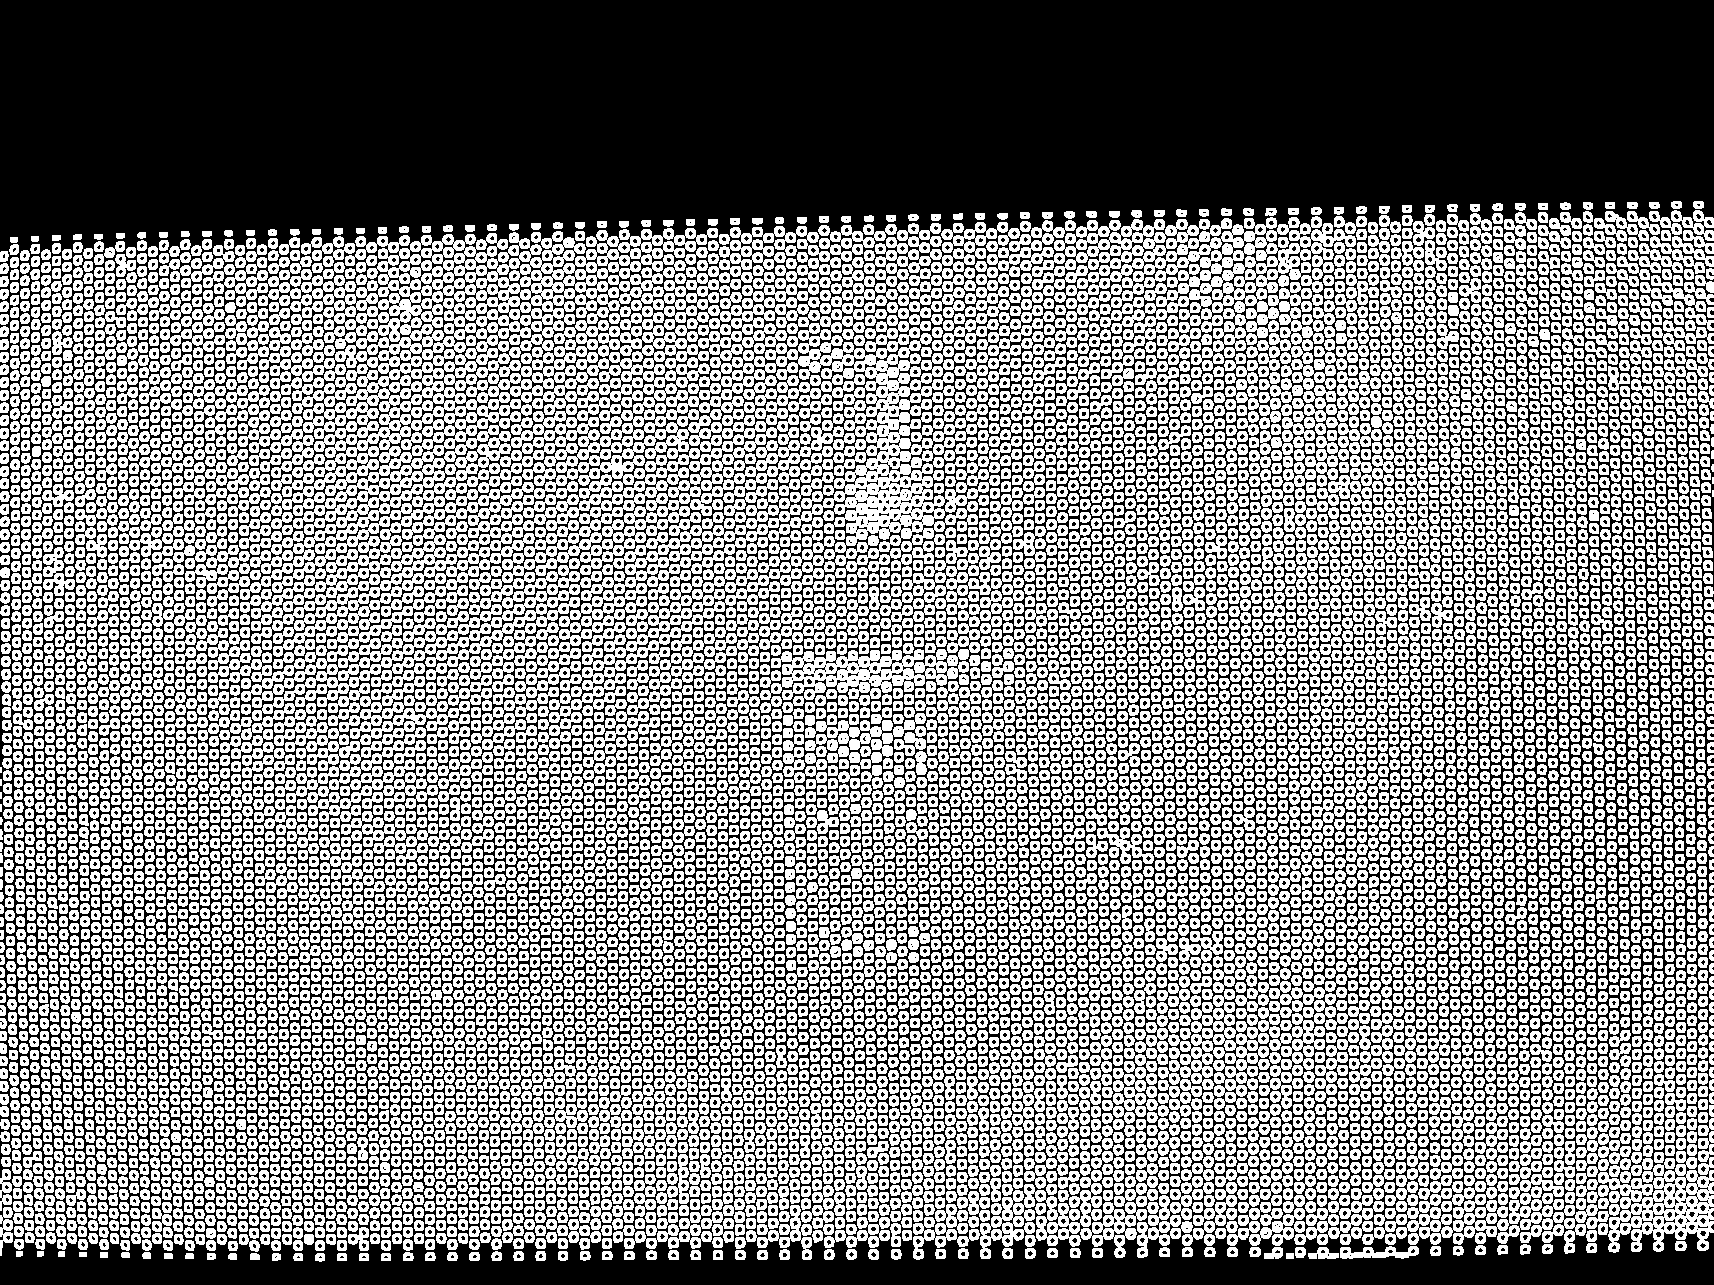
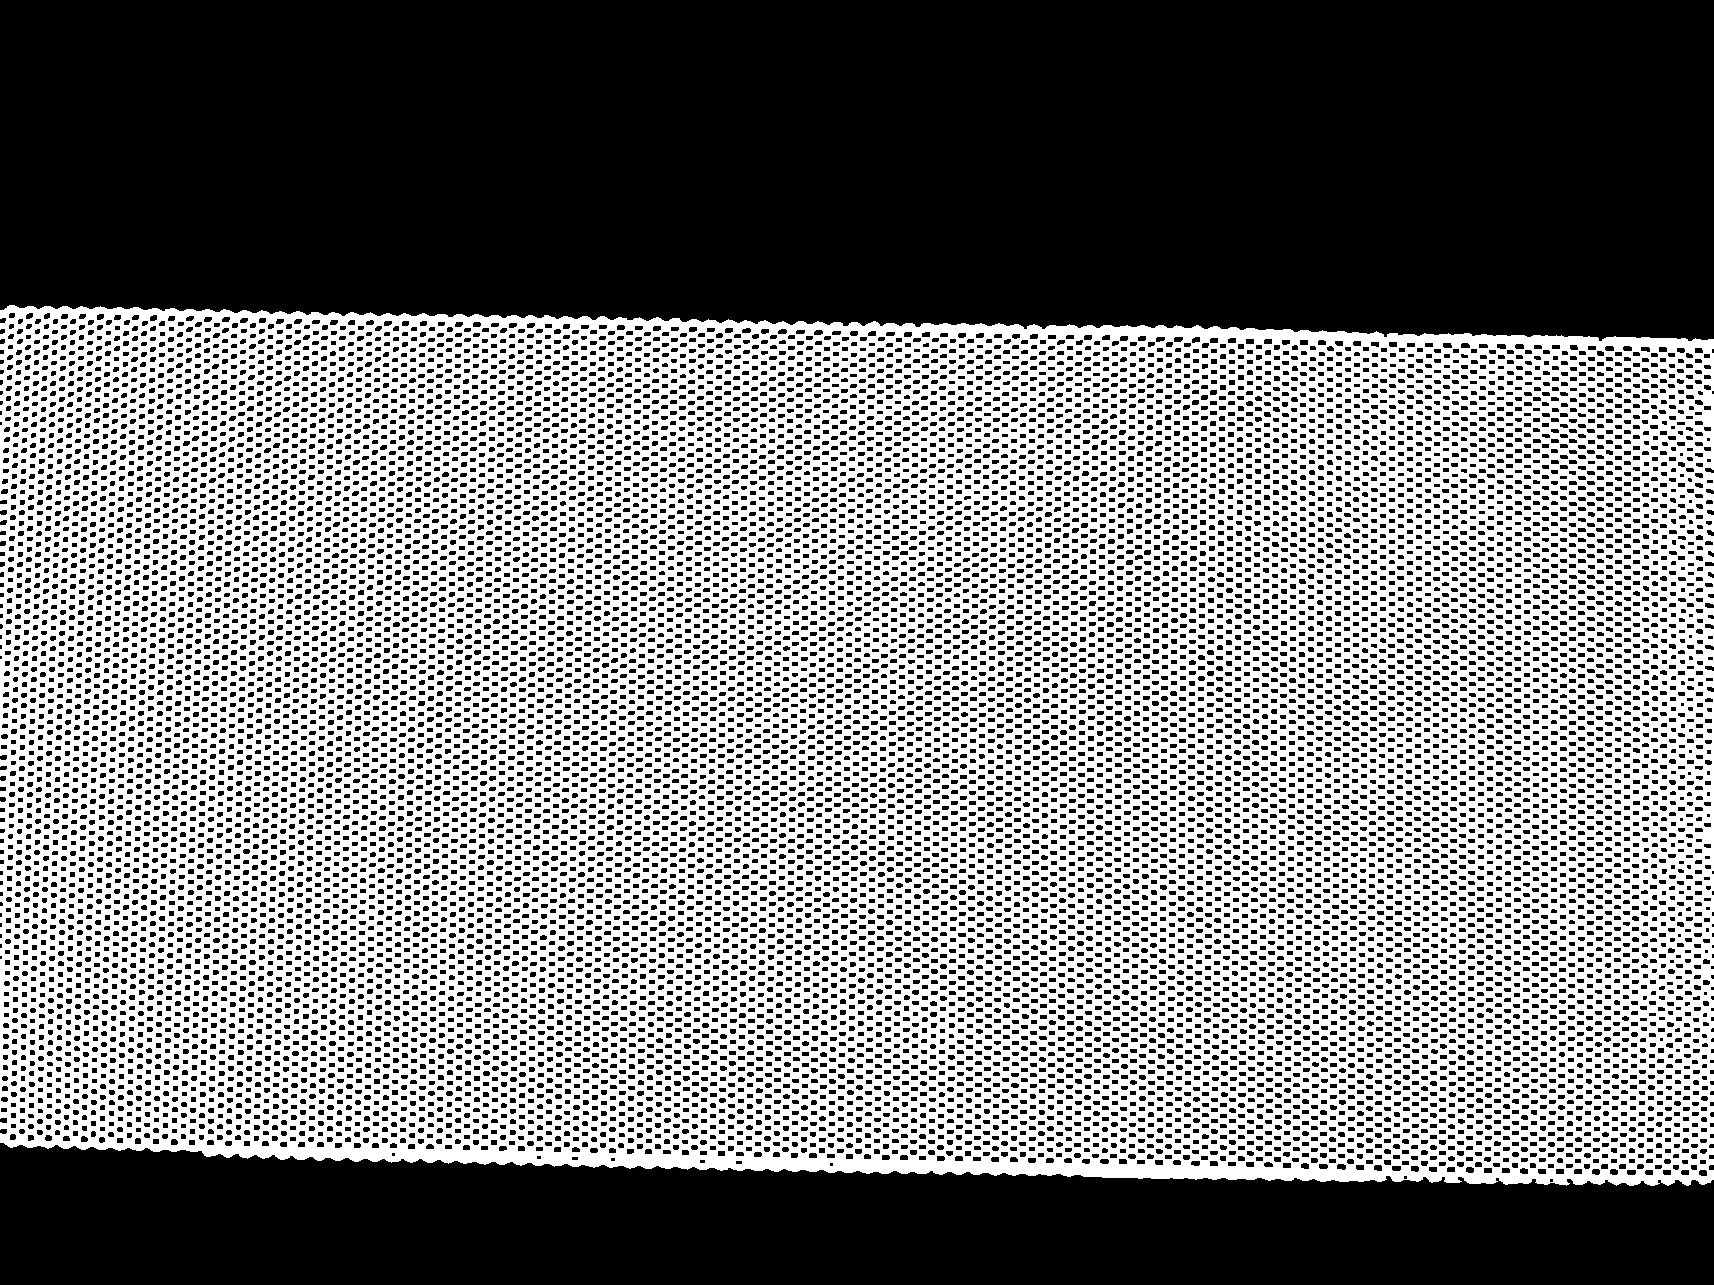
results from blurs, masks, & inpainting

diff --git a/opaque_obstruction/src/inpainting.py b/opaque_obstruction/src/inpainting.py
@@ -1,8 +1,9 @@
 import cv2 as cv
 import numpy as np
-# import libs.image_inpainting.main as region_filling
-import runpy
-from matplotlib import pyplot as plt
+from skimage.restoration import wiener
+from pathlib import Path
+
+
 
 # --------------------------------------------------------------------------------------- #
 # ---------------------------------------- Masks ---------------------------------------- #
@@ -30,21 +31,58 @@ def threshold_mask(image, threshold=115, dilate=1):
     
     return inverse_mask
 
-def test_mask(image, threshold=0, dilate=1):
+# Mask using adaptive thresholding
+def adaptive_mask(image, threshold=15, dilate=1):
     gray = cv.cvtColor(image, cv.COLOR_BGR2GRAY)
+    blurred = cv.GaussianBlur(gray, (5, 5), 0)
+    mesh_mask = cv.adaptiveThreshold(
+        blurred, 
+        255, 
+        cv.ADAPTIVE_THRESH_GAUSSIAN_C, 
+        cv.THRESH_BINARY_INV, 
+        threshold, # adjustable
+        2 # adjustable
+    )
+    kernel = np.ones((3, 3), np.uint8)
+    dilated_mask = dilate_mask(mesh_mask, dilate)
+    final_mask = cv.erode(dilated_mask, kernel, iterations=1)
 
-    edges = cv.Canny(gray, 30, 120)
+    return final_mask
 
-    # Slightly thicken to make a solid mesh
-    kernel = np.ones((3,3), np.uint8)
-    mesh = cv.dilate(edges, kernel, 1)
+# Mask using canny edge detection. Does not work
+def canny_mask(image, threshold=0, dilate=0):
+    gray = cv.cvtColor(image, cv.COLOR_BGR2GRAY)
+    blurred = cv.GaussianBlur(gray, (5, 5), 0)
+    low_threshold = 200
+    high_threshold = 2*low_threshold
+    edges = cv.Canny(blurred, low_threshold, high_threshold)
+    mask = np.zeros_like(edges)
+    contours, hierarchy = cv.findContours(edges, cv.RETR_EXTERNAL, cv.CHAIN_APPROX_SIMPLE)
+    cv.drawContours(mask, contours, -1, 255, -1)
     
-    inverse_mesh = cv.bitwise_not(mesh)
+    mask = cv.bitwise_not(mask)
+    return mask
 
-
-    # cv2.imwrite("mesh_edges.png", inverse_mesh)
-    return mesh
-
+# It is difficult to get grabcut to select the foreground.
+# The reasoning behind this is because the goal of GrabCut is to "select"
+# an object within a bounded rectangle. However, the obstruction, (microwave mesh) is
+# not an object in the image, and rather, part of the whole image and on the foreground
+def grabcut_mask(image, threshold=0, dilate=0):
+    mask = np.zeros(image.shape[:2],np.uint8)
+    bgdModel = np.zeros((1,65),np.float64)
+    fgdModel = np.zeros((1,65),np.float64)
+    rect = (500,500,1000,1000)
+    cv.grabCut(image,mask,rect,bgdModel,fgdModel,5,cv.GC_INIT_WITH_RECT)
+    
+    # mask2 = np.where((mask==2)|(mask==0),0,1).astype('uint8')
+    # img = image*mask2[:,:,np.newaxis]
+    
+    final_mask = np.where(
+        (mask == cv.GC_FGD) | (mask == cv.GC_PR_FGD),
+        255, 0
+    ).astype('uint8')
+    
+    return final_mask
 
 # --------------------------------------------------------------------------------------- #
 # ------------------------------------- Inpainting -------------------------------------- #
@@ -52,33 +90,97 @@ def test_mask(image, threshold=0, dilate=1):
 # Inpainting using navier strokes
 # @image_path: original image path. mask path is assumed to be in `01_photos_mask`
 # @resize: scale image. useful when image is too large and runs too long
-def inpaint_navier_strokes(image, mask):
-    inpainted_image = cv.inpaint(image, mask, 1, cv.INPAINT_NS)
+def inpaint_navier_strokes(image, mask, radius=1):
+    inpainted_image = cv.inpaint(image, mask, radius, cv.INPAINT_NS)
     return inpainted_image
     
 
-def inpaint_fast_marching_method(image, mask):
-    inpainted_image = cv.inpaint(image, mask, 1, cv.INPAINT_TELEA)
+def inpaint_fast_marching_method(image, mask, radius=1):
+    inpainted_image = cv.inpaint(image, mask, radius, cv.INPAINT_TELEA)
     return inpainted_image
 
 def inpaint_region_filling():
     # TODO
-
     return
 
+# --------------------------------------------------------------------------------------- #
+# -------------------------------------- Filtering -------------------------------------- #
+# --------------------------------------------------------------------------------------- #
 
-def mask_and_inpaint(image, resize=0.3):
-    scaled_image = cv.resize(image, None, fx=resize, fy=resize)
-    # mask = threshold_mask(scaled_image, 115, -1)
-    mask = test_mask(scaled_image, 115, 5)
-    inpainted_image = inpaint_navier_strokes(scaled_image, mask)
+def unblur(image, radius=15):    
+    img = image.astype(np.float32)
+    if img.max() > 1.0:
+        img = img / 255.0
+
+    kernel_size = radius
+    sigma = radius / 6
+    g = cv.getGaussianKernel(kernel_size, sigma)
+    kernel = g @ g.T
+
+    restored = np.zeros_like(img, dtype=np.float32)
+
+    for c in range(img.shape[2]):
+        restored[:, :, c] = wiener(img[:, :, c], kernel, balance=0.1)
+
+    restored = np.clip(restored * 255, 0, 255).astype(np.uint8)
+
+    return restored
+
+# Gaussian blur works suprisingly well, but it becomes very dim
+# And image is now blurred
+def gaussian_blur(image, radius=15):
+    return cv.GaussianBlur(image, (radius, radius), 0)
+
+# Median blur does not work well with obstructions. 
+# Nonlinear & adds some distortion
+def median_blur(image, radius=15):
+    return cv.medianBlur(image, radius)
+
+
+def mask_and_inpaint(image):
+    # mask = threshold_mask(image, 115, -1)
+    # mask = adaptive_mask(image, 15, 2)
+    # mask = canny_mask(image, 0, 0)
     
-    cv.imwrite(r"..\01_photos_scaled\banana_scaled.png", scaled_image)
-    cv.imwrite(r"..\01_photos_mask\banana_mask.png", mask)
-    cv.imwrite(r"..\02_photos_inpainted\banana_inpainted.png", inpainted_image)
-    return
+    th_mask = threshold_mask(image, 115, -1)
+    ad_mask = adaptive_mask(image, 15, 2)
+    
+    inpainted_image_ns_th = inpaint_navier_strokes(image, th_mask, radius=4)
+    inpainted_image_fmm_th = inpaint_fast_marching_method(image, th_mask, radius=4)
+    
+    inpainted_image_ns_ad = inpaint_navier_strokes(image, ad_mask, radius=4)
+    inpainted_image_fmm_ad = inpaint_fast_marching_method(image, ad_mask, radius=4)
+
+    return th_mask, ad_mask, inpainted_image_ns_th, inpainted_image_fmm_th, inpainted_image_ns_ad, inpainted_image_fmm_ad
+
+def run_methods(image, file_name, resize=0.3):    
+    scaled_image = cv.resize(image, None, fx=resize, fy=resize)
+
+    # Inpaints 
+    # Thresholding
+    threshold_mask, adaptive_mask, inpainted_image_ns_th, inpainted_image_fmm_th, inpainted_image_ns_ad, inpainted_image_fmm_ad = mask_and_inpaint(scaled_image)
+    cv.imwrite(rf"..\01_photos_scaled\{file_name}_scaled.png", scaled_image)
+    cv.imwrite(rf"..\01_photos_mask\{file_name}_mask_threshold.png", threshold_mask)
+    cv.imwrite(rf"..\01_photos_mask\{file_name}_mask_adaptive.png", adaptive_mask)
+    
+    cv.imwrite(rf"..\02_results_th\{file_name}_inpainted_ns.png", inpainted_image_ns_th)
+    cv.imwrite(rf"..\02_results_th\{file_name}_inpainted_fmm.png", inpainted_image_fmm_th)
+    
+    cv.imwrite(rf"..\02_results_ad\{file_name}_inpainted_ns.png", inpainted_image_ns_ad)
+    cv.imwrite(rf"..\02_results_ad\{file_name}_inpainted_fmm.png", inpainted_image_fmm_ad)
+
+    # Blurs
+    blurred_image_gaussian = gaussian_blur(scaled_image, radius=35)
+    cv.imwrite(rf"..\02_results_blurred_gs\{file_name}_blur_gaussian.png", blurred_image_gaussian)
+    
+    blurred_image_median = median_blur(scaled_image, radius=35)
+    cv.imwrite(rf"..\02_results_blurred_med\{file_name}_blur_med.png", blurred_image_median)
+
+
 
 if __name__ == "__main__":
-    image_path = r"..\00_photos_original\soap.png"
+    file_name = "fountain_pen_1"
+    
+    image_path = rf"..\00_photos_original\{file_name}.png"    
     image = cv.imread(image_path)
-    mask_and_inpaint(image, 0.3)
+    run_methods(image, file_name)

diff --git a/opaque_obstruction/README.md b/opaque_obstruction/README.md
@@ -1,0 +1,68 @@
+# Opaque Obstructions
+
+## Overview
+This section is about removing opaque obstructions. There are images of objects behind meshes / microwave screen. There are two main techniques used to remove the obstructions: blurring the whole image, and inpainting.
+
+### Blurring
+- Gaussian blur: `gaussian_blur()`
+  - \+ Simple
+  - \- Obstruction changes the color of the whole image (i.e. microwave makes images dark)
+
+- Median blur: `median_blur()`
+  - \- Somewhat works, albeit not very well
+  - \- Sometimes makes the image very dark
+  - \- Adds grid pattern to image
+
+
+### Inpainting
+#### Masking techniques
+- Simple thresholding: `threshold_mask()`
+  - \+ Removes meshes
+  - \+ Small artifacts could be blurred out
+  - \- Parts of objects that are the same color as the obstruction are blurred
+  - 
+- Adaptive thresholding: `adaptive_mask()`
+  - \+ Works the best
+  - \+ Small artifacts could be blurred out
+  - \- Slightly blurry
+  - \- Artifacts are more discernable than simple thresholding
+
+- [UNUSED] Canny edge detection: `canny_mask()`
+  - \- Does not work. It is able to capture edges, but the lines it generates are too thin and inconsistent to be effective.
+
+- [UNUSED] GrabCut: `grabcut_mask()`
+  - \- Does not work. This is because you need to address an explicit estimated area (rectangle) where the selected object/obstruction is located. Because we want to select a foreground obstruction (mesh), and it is on the whole image, it has a difficult time selecting it.
+
+#### Inpainting techniques
+All post-processed inpainting techniques could be blurred using Gaussian blur to reduce or remove the artifacts, but it would make the image blurrier. 
+Tuning the masks by adjusting thresholds and dilations per-image could also be effective in removing artifacts.
+
+- Fast marching method `inpaint_fast_marching_method()`
+  - Blurrier image
+  - \+ Artifacts are less obvious
+
+- Navier strokes: `inpaint_navier_strokes()`
+  - Sharper image
+  - \- Artifacts are more obvious
+
+- [UNIMPLEMENTED] Region Filling: `inpaint_region_filling()`
+  - \- GitHub library. Does not work on whole images. Also takes a long time to run per image.
+
+
+## How to run
+`python ./src/inpainting.py` reads all photos from `00_photos_original` and the processed images are stored in [Folder structure](#folder-structure). 
+
+## Folder structure
+- `00_photos_original`: Original photos to be processed
+
+---
+
+- `01_photos_mask`: Image's mask using threshold `*_th` and adaptive threshold `*_ad`
+- `01_photos_scaled`: Scaled images of the original photos. Images are scaled so that my computer can process the images quicker `*_scaled`
+  
+---
+
+- `02_results_blurred_gs`: Contains results using gaussian blurring
+- `02_results_blurred_med`: Contains results using median blurring
+- `02_results_inpainted_fmm`: Contains results using fast marching method. `*_gs` is gaussian, `*_ad` is adaptive.
+- `02_results_inpainted_ns`: Contains results using navier strokes. Uses adaptive thresholding. `*_gs` is gaussian, `*_ad` is adaptive.
